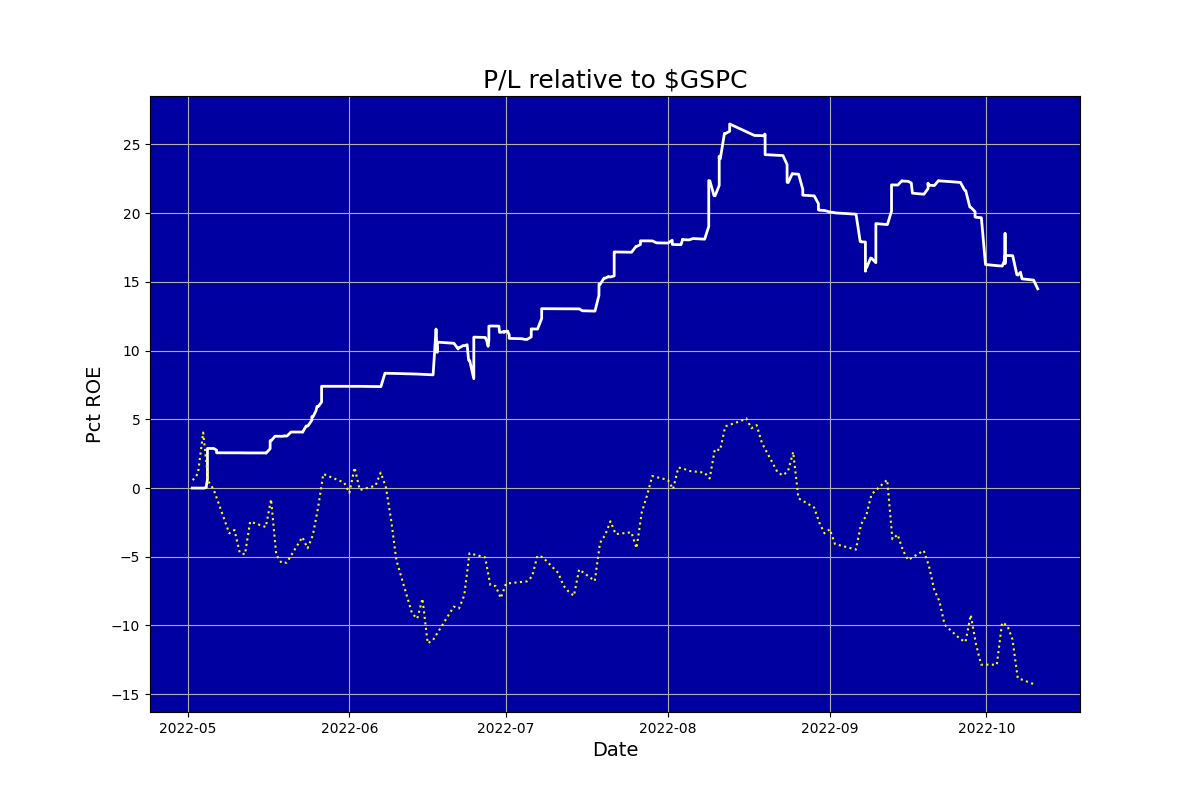
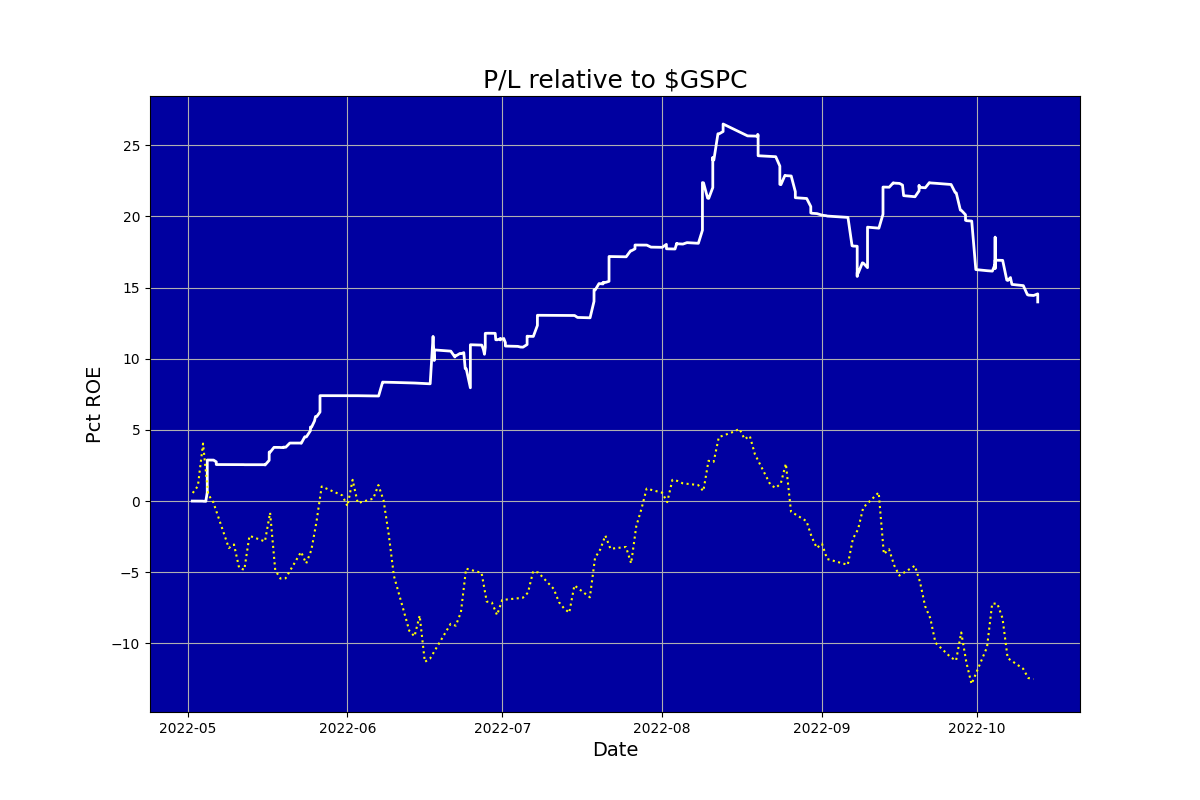
Updated

diff --git a/ig_report.html b/ig_report.html
@@ -1,1 +1,1 @@
-<html><body><center><h1>Auriel (never knowingly overbought)</h1></center><table cols=2><tr><td><img src=ig_pl.png></td><td><table cols=2><tr><td colspan=2><b><br>Snapshot</b></td></tr><tr><td>Last updated:&nbsp;&nbsp;&nbsp;</td><td>2022-10-10 15:59</td></tr><tr><td>Funds:&nbsp;&nbsp;&nbsp;</td><td>13223.69</td></tr><tr><td>Margin:&nbsp;&nbsp;&nbsp;</td><td>0.39</td></tr><tr><td>Cushion:&nbsp;&nbsp;&nbsp;</td><td>-2764.88</td></tr><tr><td>Last closed trade:&nbsp;&nbsp;&nbsp;</td><td>2022-10-10</td></tr><tr><td colspan=2><b><br>Positions</b></td></tr><tr><td>Mean days to new high:&nbsp;&nbsp;&nbsp;</td><td>5.54</td></tr><tr><td colspan=2><b><br>Trades</b></td></tr><tr><td>Num trades:&nbsp;&nbsp;&nbsp;</td><td>148</td></tr><tr><td>Pct winners:&nbsp;&nbsp;&nbsp;</td><td>60.81</td></tr><tr><td>Pct beating benchmark:&nbsp;&nbsp;&nbsp;</td><td>59.86</td></tr><tr><td>Pct profitable months:&nbsp;&nbsp;&nbsp;</td><td>66.67</td></tr><tr><td colspan=2><b><br>Performance</b></td></tr><tr><td>Pct median monthly ROE:&nbsp;&nbsp;&nbsp;</td><td>3.40</td></tr><tr><td>Pct annualised ROE:&nbsp;&nbsp;&nbsp;</td><td>62.18</td></tr><tr><td colspan=2><b><br>Risk</b></td></tr><tr><td>Volatility pct:&nbsp;&nbsp;&nbsp;</td><td>21.16</td></tr><tr><td>Benchmark volatility pct:&nbsp;&nbsp;&nbsp;</td><td>25.14</td></tr><tr><td>Sharpe ratio:&nbsp;&nbsp;&nbsp;</td><td>2.84</td></tr><tr><td>Calmar ratio:&nbsp;&nbsp;&nbsp;</td><td>5.52</td></tr><tr><td>Worst drawdown pct:&nbsp;&nbsp;&nbsp;</td><td>-0.11</td></tr><tr><td>Recovery days from worst drawdown:&nbsp;&nbsp;&nbsp;</td><td>9999.00</td></tr><tr><td>Beat benchmark +ve periods pct:&nbsp;&nbsp;&nbsp;</td><td>0.83</td></tr><tr><td>Beat benchmark -ve periods pct:&nbsp;&nbsp;&nbsp;</td><td>0.94</td></tr><tr><td>Correlation with benchmark:&nbsp;&nbsp;&nbsp;</td><td>0.40</td></tr></table></td></tr></table></body></html>
+<html><body><center><h1>Auriel (never knowingly overbought)</h1></center><table cols=2><tr><td><img src=ig_pl.png></td><td><table cols=2><tr><td colspan=2><b><br>Snapshot</b></td></tr><tr><td>Last updated:&nbsp;&nbsp;&nbsp;</td><td>2022-10-12 16:00</td></tr><tr><td>Funds:&nbsp;&nbsp;&nbsp;</td><td>13153.26</td></tr><tr><td>Margin:&nbsp;&nbsp;&nbsp;</td><td>0.40</td></tr><tr><td>Cushion:&nbsp;&nbsp;&nbsp;</td><td>-3179.74</td></tr><tr><td>Last closed trade:&nbsp;&nbsp;&nbsp;</td><td>2022-10-12</td></tr><tr><td colspan=2><b><br>Positions</b></td></tr><tr><td>Mean days to new high:&nbsp;&nbsp;&nbsp;</td><td>5.78</td></tr><tr><td colspan=2><b><br>Trades</b></td></tr><tr><td>Num trades:&nbsp;&nbsp;&nbsp;</td><td>150</td></tr><tr><td>Pct winners:&nbsp;&nbsp;&nbsp;</td><td>60.67</td></tr><tr><td>Pct beating benchmark:&nbsp;&nbsp;&nbsp;</td><td>59.73</td></tr><tr><td>Pct profitable months:&nbsp;&nbsp;&nbsp;</td><td>66.67</td></tr><tr><td colspan=2><b><br>Performance</b></td></tr><tr><td>Pct median monthly ROE:&nbsp;&nbsp;&nbsp;</td><td>3.40</td></tr><tr><td>Pct annualised ROE:&nbsp;&nbsp;&nbsp;</td><td>59.48</td></tr><tr><td colspan=2><b><br>Risk</b></td></tr><tr><td>Volatility pct:&nbsp;&nbsp;&nbsp;</td><td>21.04</td></tr><tr><td>Benchmark volatility pct:&nbsp;&nbsp;&nbsp;</td><td>25.27</td></tr><tr><td>Sharpe ratio:&nbsp;&nbsp;&nbsp;</td><td>2.73</td></tr><tr><td>Calmar ratio:&nbsp;&nbsp;&nbsp;</td><td>5.06</td></tr><tr><td>Worst drawdown pct:&nbsp;&nbsp;&nbsp;</td><td>-0.12</td></tr><tr><td>Recovery days from worst drawdown:&nbsp;&nbsp;&nbsp;</td><td>9999.00</td></tr><tr><td>Beat benchmark +ve periods pct:&nbsp;&nbsp;&nbsp;</td><td>0.83</td></tr><tr><td>Beat benchmark -ve periods pct:&nbsp;&nbsp;&nbsp;</td><td>0.94</td></tr><tr><td>Correlation with benchmark:&nbsp;&nbsp;&nbsp;</td><td>0.39</td></tr></table></td></tr></table></body></html>
